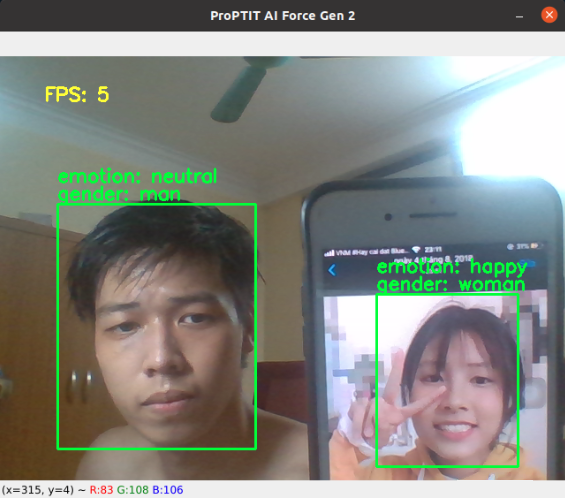
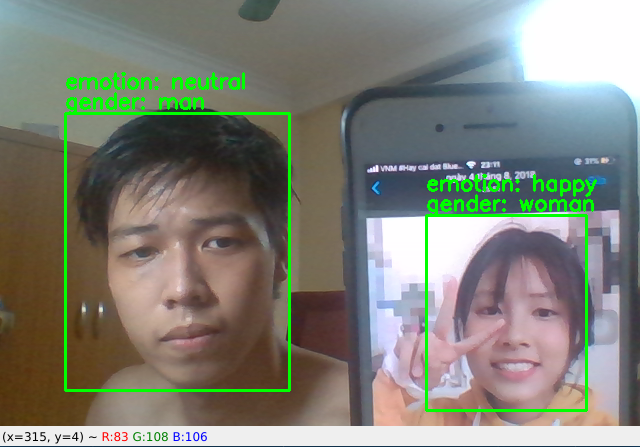
replace image

diff --git a/README.md b/README.md
@@ -8,7 +8,7 @@ Facial Expression Revognition and Gender Recognition builded by CPU.
 - GPU: Mesa Intel® HD Graphics 620 (KBL GT2)
 - Camera: belongs to Lenovo Thinkpad-T570s
 
-![image](https://i.ibb.co/TtpGNvx/2faces.png)
+![image](https://i.ibb.co/0KHk91b/hoa.png)
 
 ## Installation 
 - Clone this project: 
